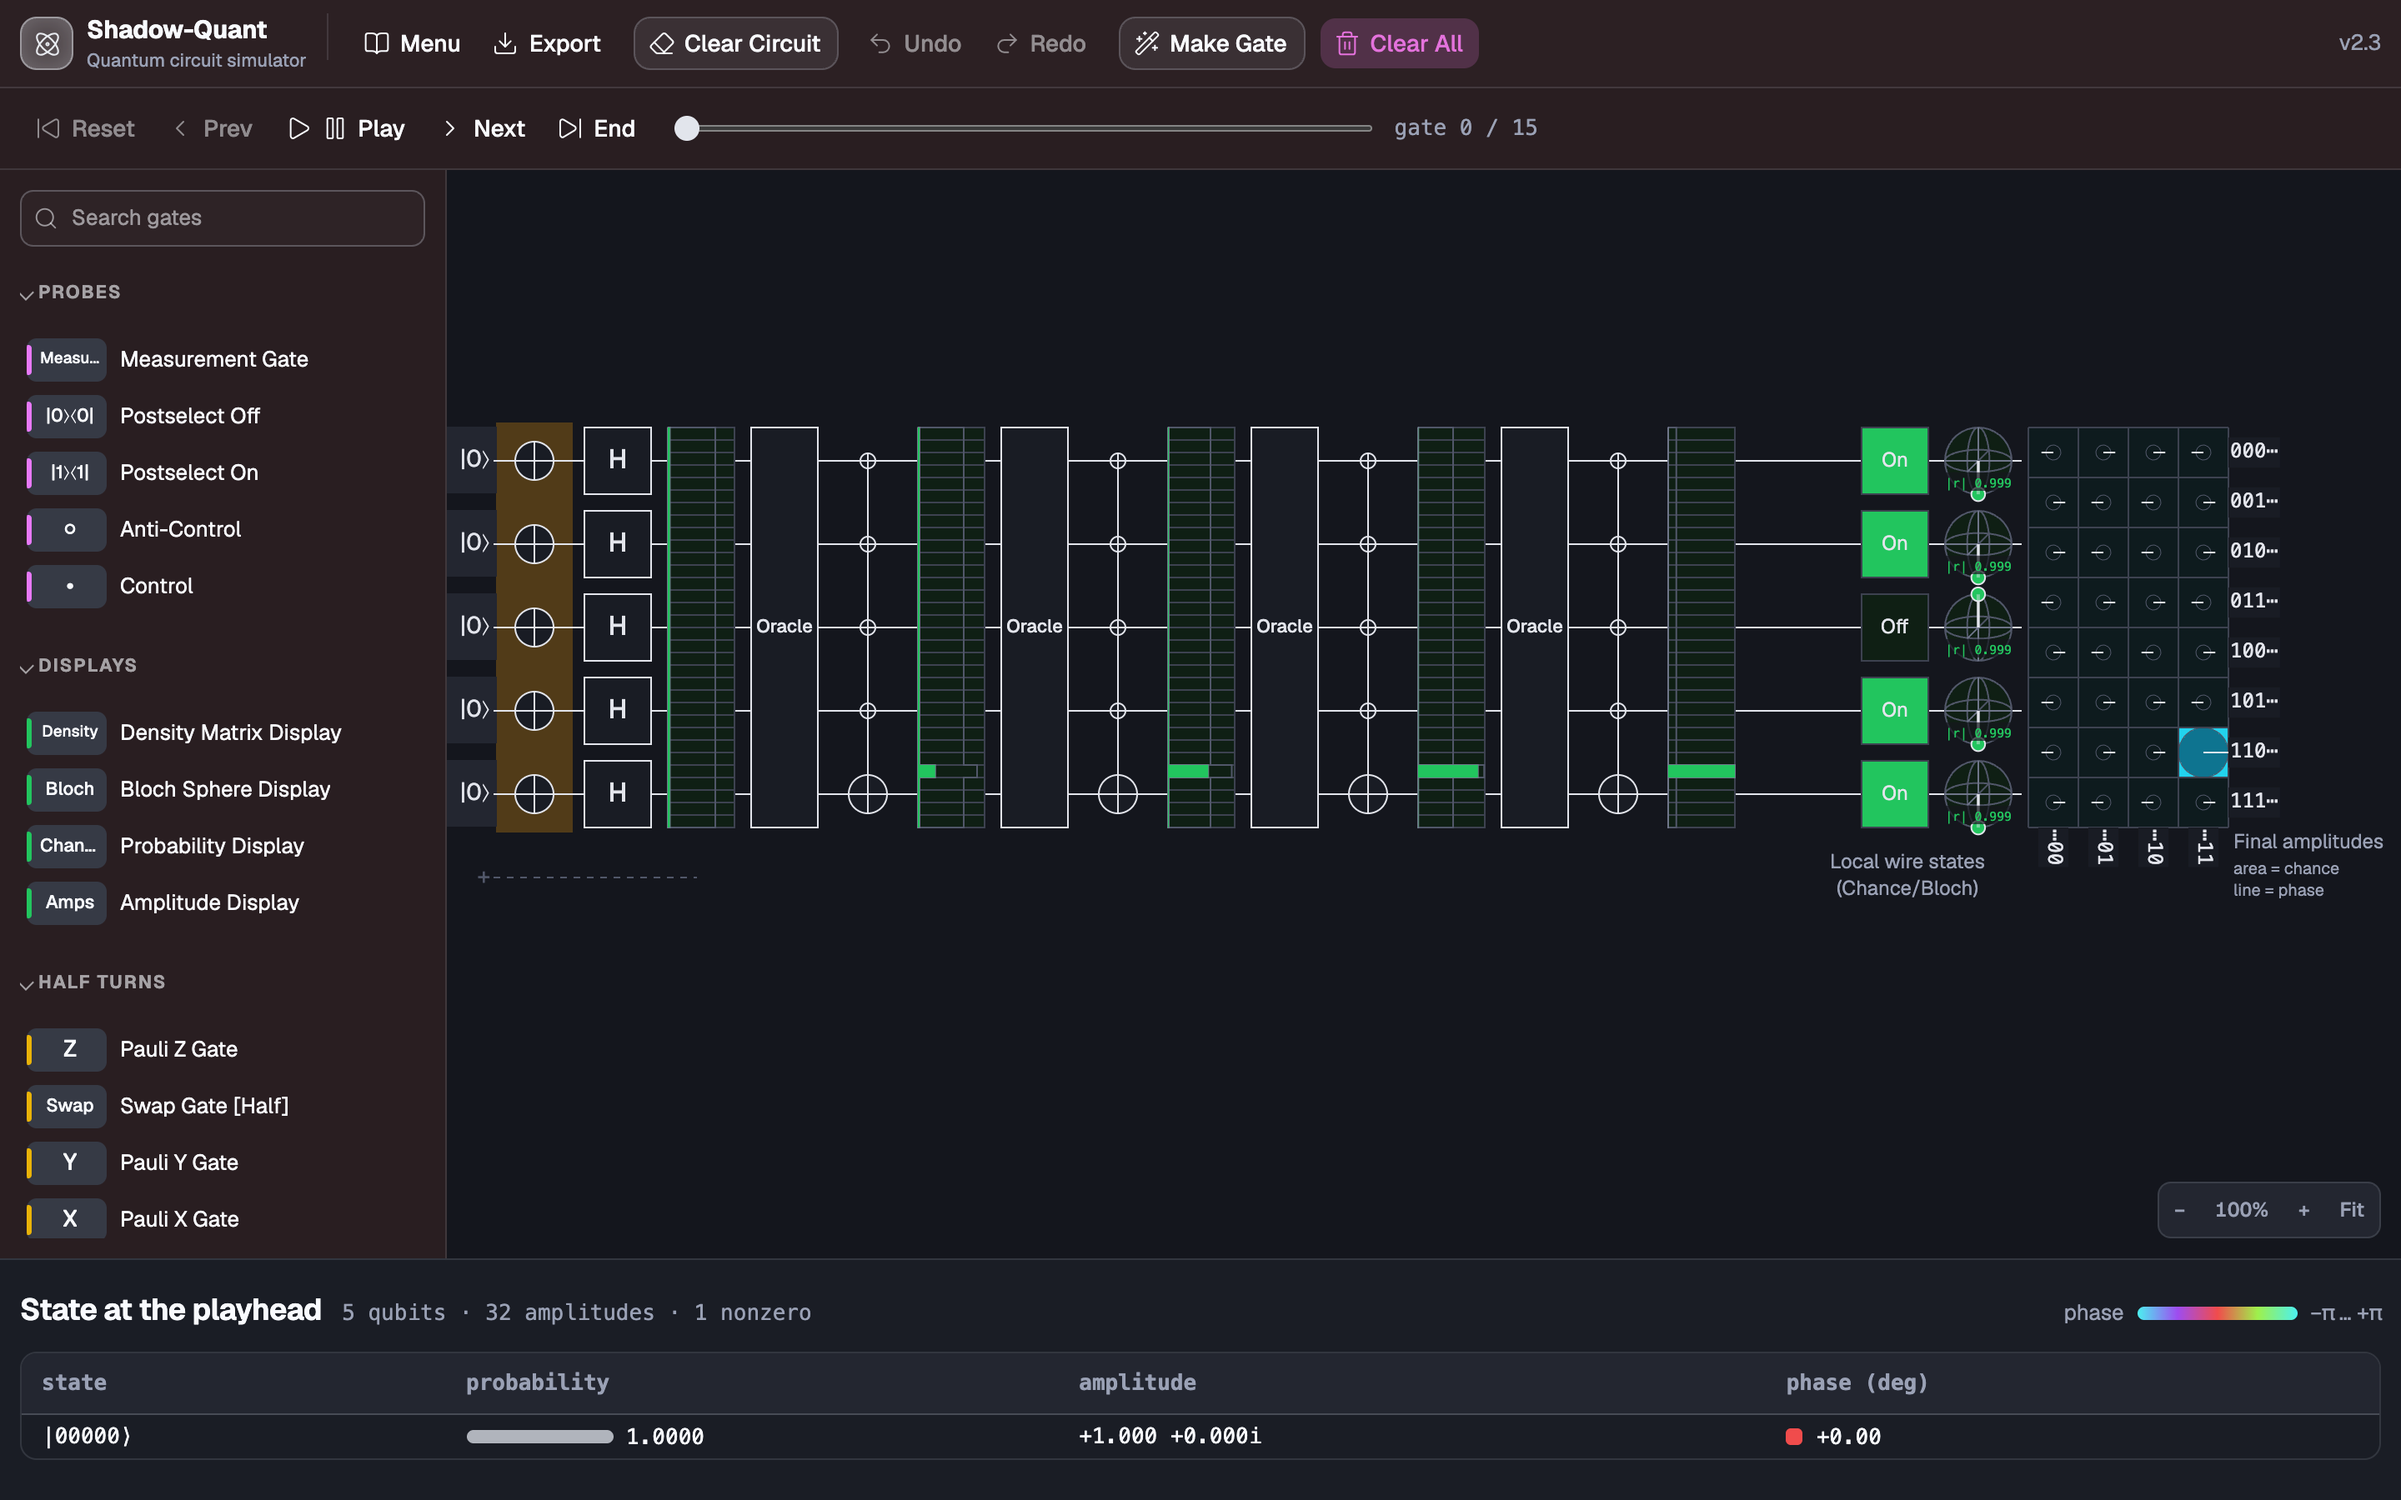
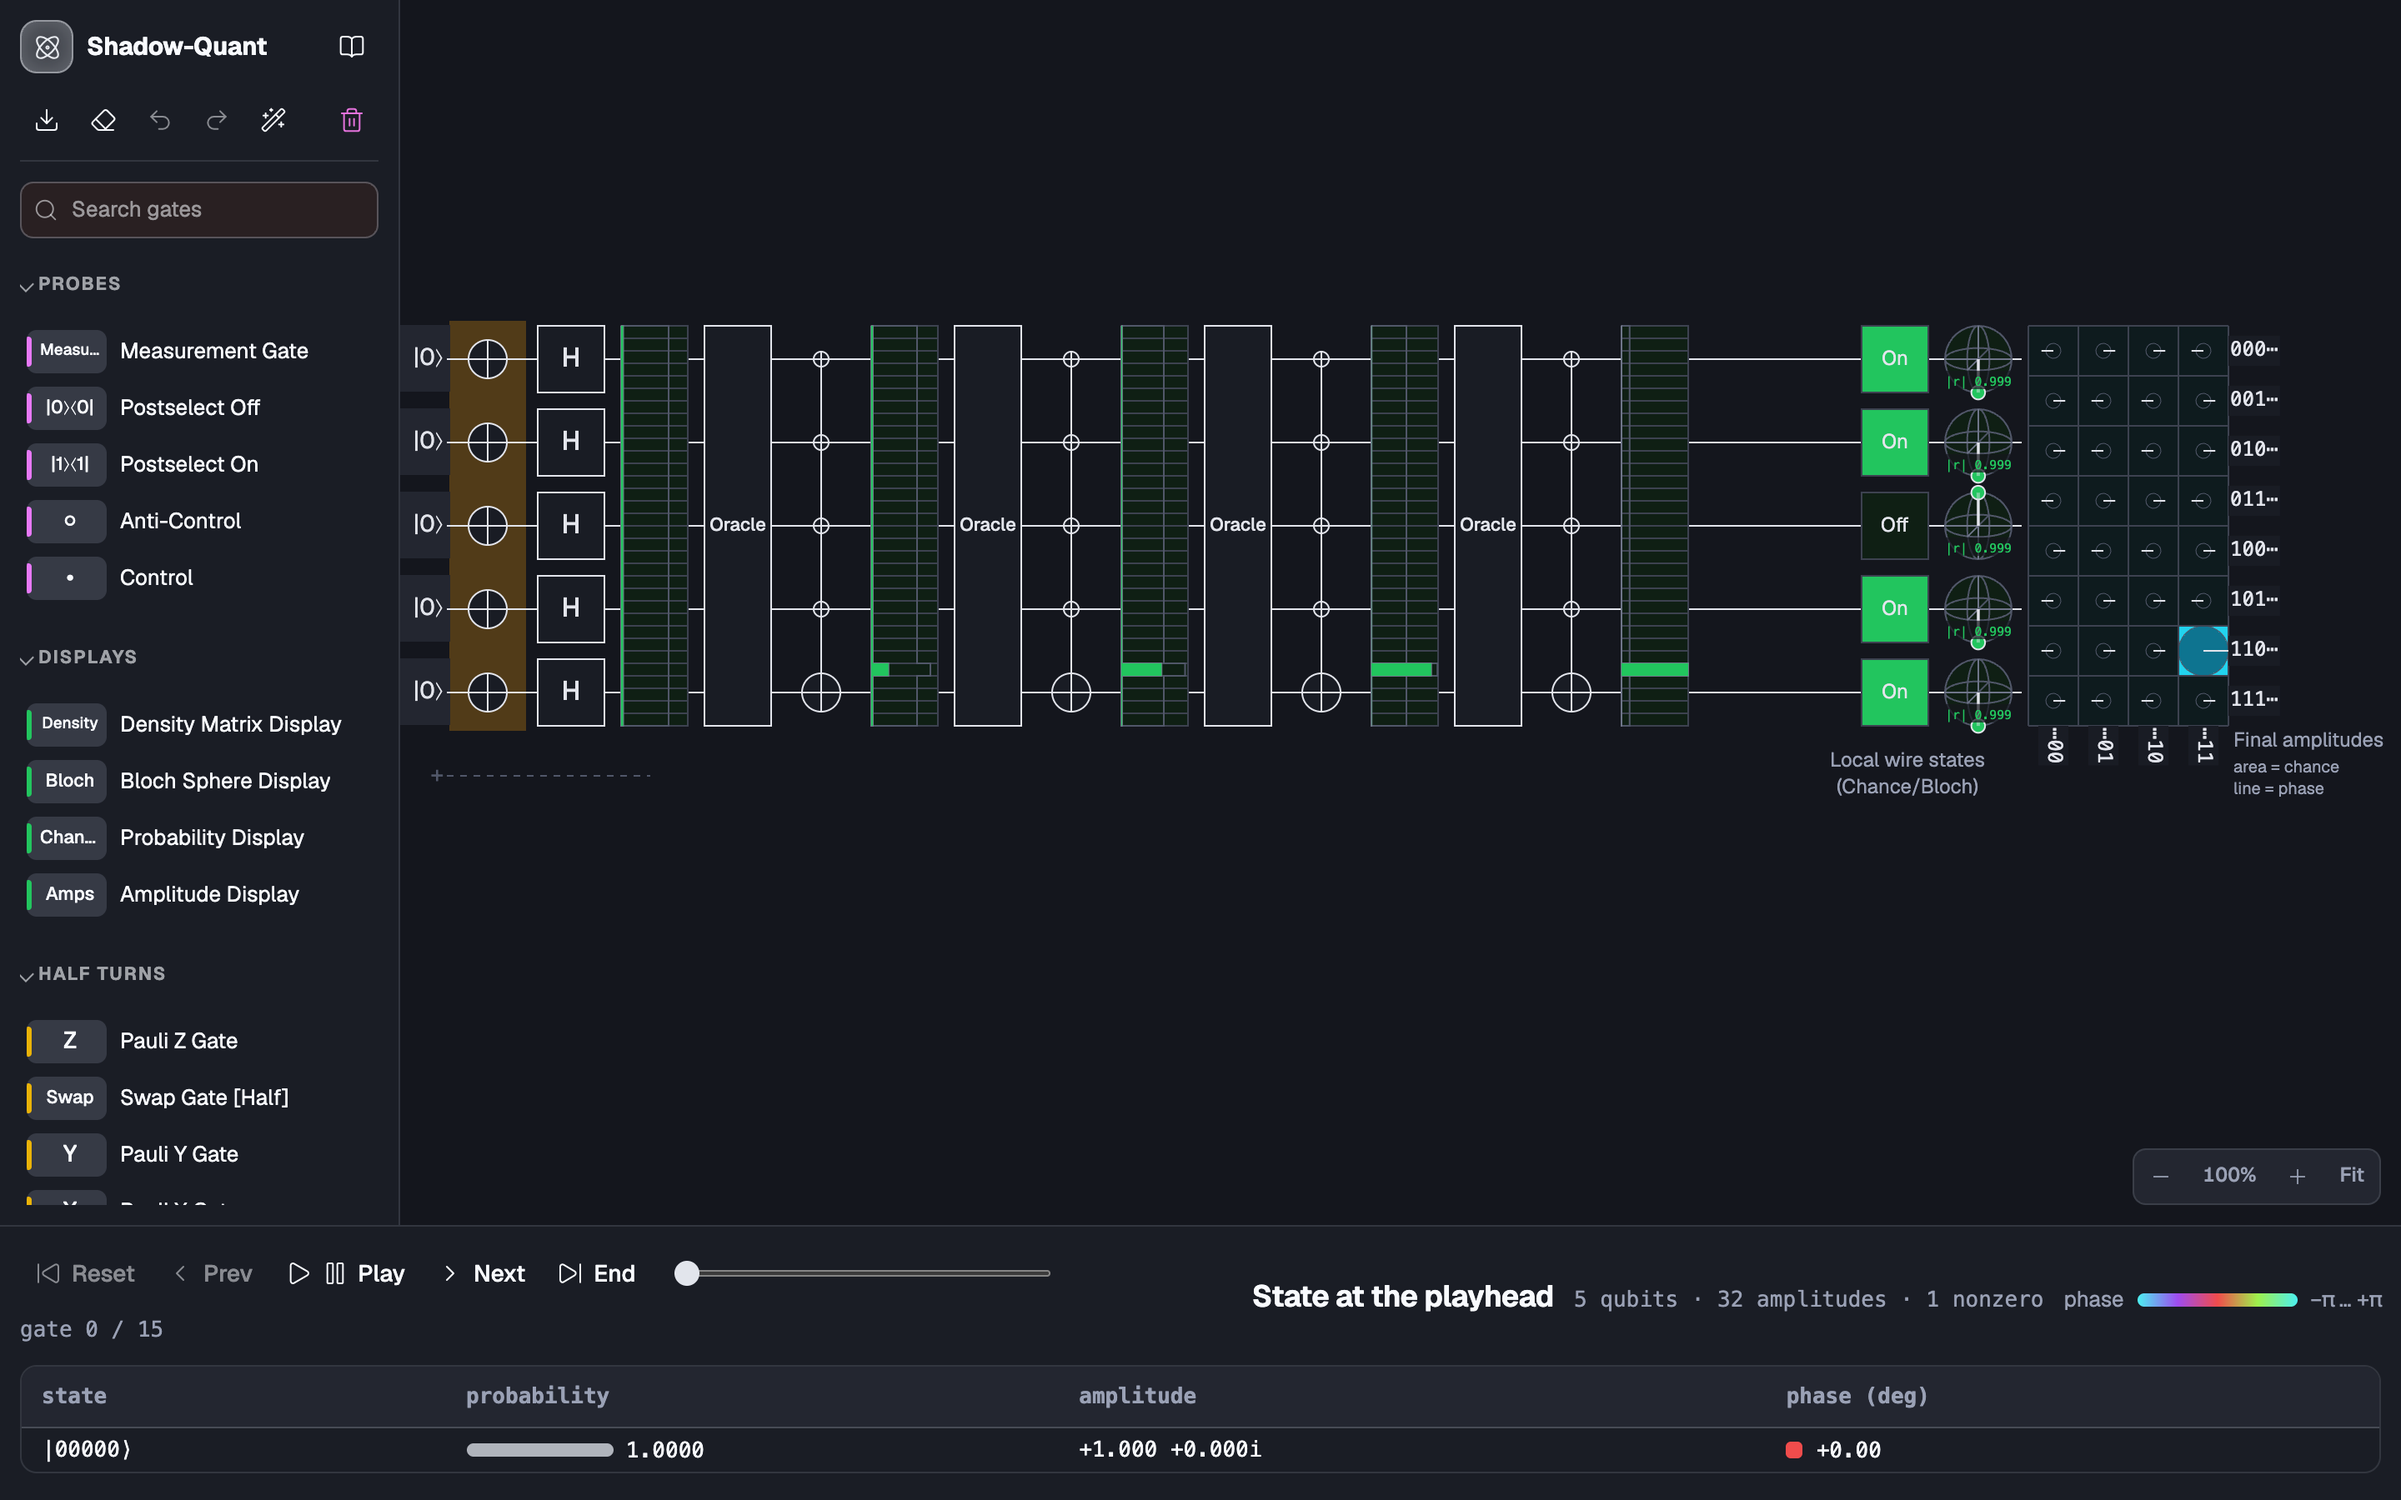
Refresh the README screenshots and blurb for the consolidated shell
Recaptured from the current build: the sidebar carries the icon action
row, the transport sits in the bottom debugger dock, and the dialogs are
floating windows. The intro describes that layout.

diff --git a/README.md b/README.md
@@ -5,8 +5,10 @@
 Shadow-Quant is a toy quantum circuit simulator, intended to help people in learning about quantum
 computing. It is a fork of Craig Gidney's [Quirk](https://github.com/Strilanc/Quirk)
 ([algassert.com/quirk](http://algassert.com/quirk)), rebuilt around a modern app shell: a gate
-sidebar with search and folding, a playhead transport with a state table, circuit zoom with an
-overview minimap, adjustable Rx/Ry/Rz rotation gates, and an enlarged rotatable Bloch sphere view.
+sidebar with search, folding, and the circuit actions, a playhead transport docked with the state
+table, circuit zoom with an overview minimap, adjustable Rx/Ry/Rz rotation gates, and floating
+dialog windows — including an enlarged rotatable Bloch sphere view — that drag and snap to the
+screen edges while the circuit stays editable.
 
 If you want to quickly explore the behavior of a small quantum circuit, this is the tool for you:
 drag gates onto the circuit and the output displays update in real time.
